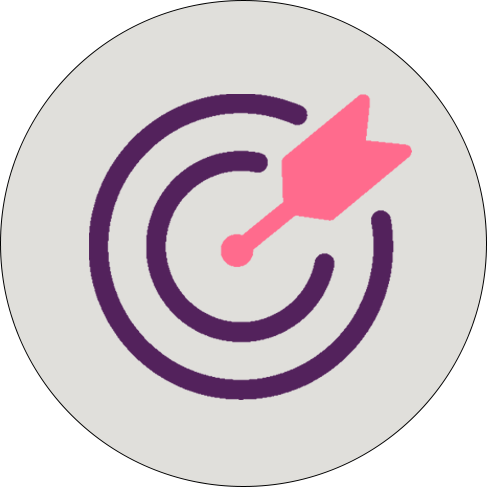
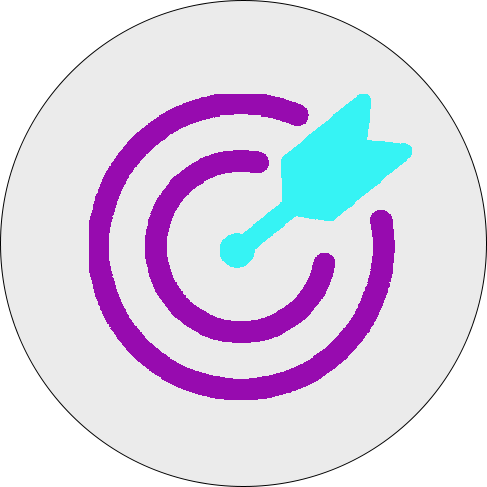
splash page

Changed region(s): [[0.1848, 0.1848, 0.8624, 0.8316]]

diff --git a/public/css/main.css b/public/css/main.css
@@ -1,2 +1,25 @@
-nav{background-color:pink}nav ul{margin:0;padding:0}nav ul li{display:inline}nav a{text-decoration:none}.team{display:flex;flex-direction:row;flex-wrap:wrap;justify-content:space-evenly}.team .user-panel{flex:0 1 200px;text-align:center;padding:8px}.team .user-panel .icon{max-width:200px}.team .user-panel .u-link{display:block;text-decoration:none;margin:0 auto;background-color:rgba(255,255,255,0.8);padding:5px}.team .user-panel h1,.team .user-panel h3{margin:5px 0}@media screen and (min-width: 900px){.team .user-panel{flex:1 1}.team .user-panel .icon{max-width:300px}}.lightbox{display:none;flex-direction:row;min-height:100vh;width:100%;position:fixed;top:0;z-index:5000;padding:20px;background-color:rgba(0,0,0,0.85)}.lightbox .sidebar{flex:1}.lightbox .lb-content{flex:3}.lightbox img{max-width:250px}.lightbox .close{right:24px;top:10px;cursor:pointer;font-size:2em;position:fixed;border:thin solid white;padding:2px 14px 5px;border-radius:50%;background-color:rgba(255,255,255,0.25)}.show-lb{display:flex !important}.u-social li{display:inline-block;padding:10px}body{background-color:black;color:white}.error-section a{color:white;text-decoration:none}body{color:#fff;background-color:#212121;font-family:'Comfortaa', cursive}h1{color:#FFD25E}h2{color:#CFCFCF}.panel{min-height:80vh;background-color:#212121}#to-top{position:fixed;bottom:10px;right:10px;display:none}footer{color:#fff}ul{margin:0;padding:0}ul li{display:inline}ul li a{text-decoration:none}
+h1 {
+    text-align: left;
+    font-size: 40px;
+    margin-left: 630px;
+    margin-top: 210px;
+    position: absolute;
+    line-height: 60px;
+
+}
+
+h1 a {
+    text-decoration: none;
+    color: white;
+}
+
+h1 a:hover {
+    opacity: 0.8;
+}
+
+#splashImg {
+    width: 100%;
+}
+
+.team{display:flex;flex-direction:row;flex-wrap:wrap;justify-content:space-evenly}.team .user-panel{flex:0 1 200px;text-align:center;padding:8px}.team .user-panel .icon{max-width:200px}.team .user-panel .u-link{display:block;text-decoration:none;margin:0 auto;background-color:rgba(255,255,255,0.8);padding:5px}.team .user-panel h1,.team .user-panel h3{margin:5px 0}@media screen and (min-width: 900px){.team .user-panel{flex:1 1}.team .user-panel .icon{max-width:300px}}.lightbox{display:none;flex-direction:row;min-height:100vh;width:100%;position:fixed;top:0;z-index:5000;padding:20px;background-color:rgba(0,0,0,0.85)}.lightbox .sidebar{flex:1}.lightbox .lb-content{flex:3}.lightbox img{max-width:250px}.lightbox .close{right:24px;top:10px;cursor:pointer;font-size:2em;position:fixed;border:thin solid white;padding:2px 14px 5px;border-radius:50%;background-color:rgba(255,255,255,0.25)}.show-lb{display:flex !important}.u-social li{display:inline-block;padding:10px}body{background-color:black;color:white}.error-section a{color:white;text-decoration:none}body{color:#fff;background-color:#020A2F;font-family:'Comfortaa', cursive}h1{color:#fff}h2{color:#F511F7}h4{color:#fff}h5{color:#36F3F4}.panel{min-height:80vh;background-color:#020A2F}#to-top{position:fixed;bottom:10px;right:10px;display:none}footer{color:#fff}ul{margin:0;padding:0}ul li{display:inline}ul li a{text-decoration:none}
 /*# sourceMappingURL=main.css.map */

diff --git a/sass/main.scss b/sass/main.scss
@@ -11,16 +11,26 @@ body {
 }
 
 h1 {
-    color: $splash-heading-color;
+    color: $splash-color;
 }
 
 h2 {
-    color: $other-heading-color;
+    color: $title-color;
 }
+
+h4 {
+    color: $desc-color;
+}
+
+h5 {
+    color: $link-color;
+}
+
+
 
 .panel { 
     min-height: 80vh; 
-    background-color: #212121;
+    background-color: #020A2F;
 }
 
 #to-top { position: fixed; bottom: 10px; right: 10px; display: none; }

diff --git a/sass/_vars.scss b/sass/_vars.scss
@@ -1,9 +1,13 @@
 $main-color: #ffffff;
-$body-bg:#212121;
+$body-bg:#020A2F;
 
-$splash-heading-color:#FFD25E;
+$splash-color: white;
 
-$other-heading-color: #CFCFCF;
+$title-color:#F511F7;
+
+$desc-color: white;
+
+$link-color:#36F3F4;
 
 $footer-text-color:white;
 
